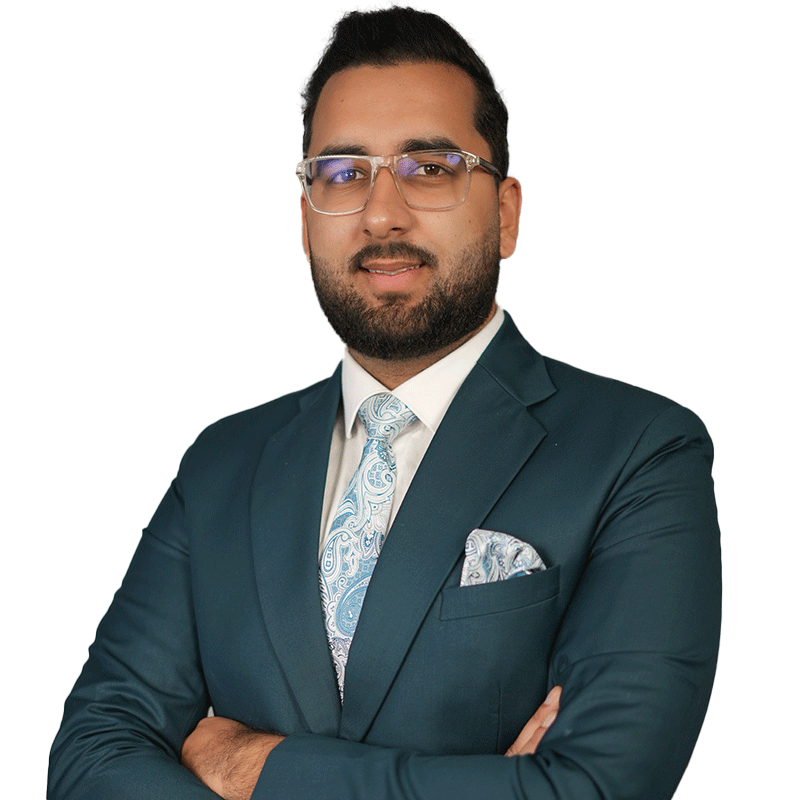
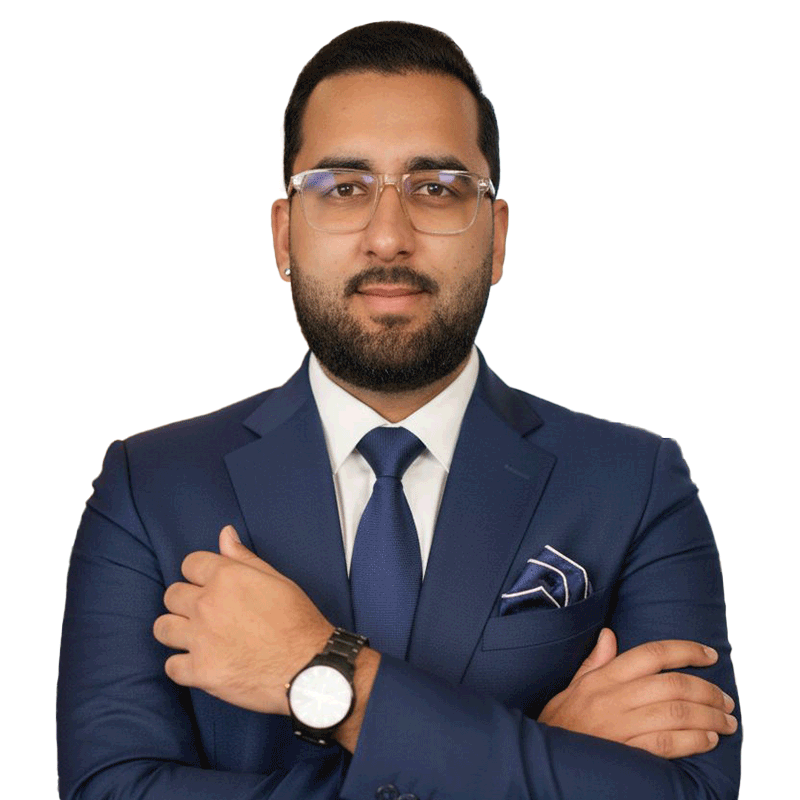
Use featured-testimonials iframe on homepage; about, footer, images updates
Made-with: Cursor

diff --git a/components/footer.php b/components/footer.php
@@ -894,16 +894,20 @@
 
     let loaderHidden = false;
     let hideLoaderTimeout = null;
-    let initialized = false;
 
-    // Hide loader when page is fully loaded
     function hideLoader() {
       if (loaderHidden || !pageLoader || pageLoader.classList.contains('hidden')) {
         return;
       }
+
+      if (hideLoaderTimeout) {
+        clearTimeout(hideLoaderTimeout);
+        hideLoaderTimeout = null;
+      }
+
       loaderHidden = true;
       pageLoader.classList.add('hidden');
-      // Remove from DOM after animation completes
+
       setTimeout(function() {
         if (pageLoader && pageLoader.parentNode) {
           pageLoader.style.display = 'none';
@@ -911,159 +915,55 @@
       }, 500);
     }
 
-    // Function to initialize loader hiding logic
-    function initLoaderHide() {
-      if (initialized) {
-        return; // Already initialized
-      }
-      initialized = true;
-
-      // Clear any existing timeout
-      if (hideLoaderTimeout) {
-        clearTimeout(hideLoaderTimeout);
-      }
-
-      // Hide loader faster - don't wait for all resources
-      if (document.readyState === 'loading') {
-        document.addEventListener('DOMContentLoaded', function() {
-          hideLoaderTimeout = setTimeout(hideLoader, 400);
-        }, {
-          once: true
-        });
-      } else if (document.readyState === 'interactive' || document.readyState === 'complete') {
-        // DOM already loaded, hide quickly
-        hideLoaderTimeout = setTimeout(hideLoader, 200);
-      }
-
-      // Also listen for window load as backup (but with shorter timeout)
-      window.addEventListener('load', function() {
-        if (hideLoaderTimeout) {
-          clearTimeout(hideLoaderTimeout);
-        }
-        hideLoaderTimeout = setTimeout(hideLoader, 100);
-      }, {
-        once: true
-      });
-
-      // Force hide after maximum time (prevent infinite loading)
-      setTimeout(function() {
-        if (!loaderHidden) {
-          hideLoader();
-        }
-      }, 2000); // Maximum 2 seconds
-    }
-
-    // Handle browser back/forward navigation (pageshow event)
-    // This runs on every page show, including back/forward navigation
-    window.addEventListener('pageshow', function(event) {
-      // Reset initialization flag
-      initialized = false;
-
-      // Clear any existing timeout
+    function showLoader() {
       if (hideLoaderTimeout) {
         clearTimeout(hideLoaderTimeout);
         hideLoaderTimeout = null;
       }
 
-      // If page was loaded from cache (bfcache), hide loader immediately
-      if (event.persisted) {
-        // Page loaded from cache - it's already fully loaded, hide loader immediately
-        loaderHidden = true;
-        if (pageLoader) {
-          pageLoader.style.display = 'none';
-          pageLoader.classList.add('hidden');
-        }
-      } else {
-        // Fresh page load
-        loaderHidden = false;
-        if (pageLoader) {
-          pageLoader.style.display = 'flex';
-          pageLoader.classList.remove('hidden');
-        }
-        // Initialize hide logic
-        initLoaderHide();
-      }
-    });
-
-    // Initial setup for first load
-    // Show loader initially
-    pageLoader.style.display = 'flex';
-    pageLoader.classList.remove('hidden');
-    initLoaderHide();
-
-    // Show loader when navigating away (for page transitions)
-    let isNavigating = false;
-
-    // Helper function to check if mobile
-    function isMobile() {
-      return window.innerWidth <= 992;
+      loaderHidden = false;
+      pageLoader.style.display = 'flex';
+      pageLoader.classList.remove('hidden');
     }
 
-    // Listen for link clicks
-    document.addEventListener('click', function(e) {
-      const link = e.target.closest('a');
-      if (link && link.href && !link.href.startsWith('#') && !link.href.startsWith('javascript:') && !link.href.startsWith('mailto:') && !link.href.startsWith('tel:')) {
-        try {
-          // Don't show loader for links that open in new tab - current page doesn't navigate
-          if (link.target === '_blank') {
-            return;
-          }
-
-          // Check if clicking directly on dropdown arrow or nested arrow - don't show loader
-          const clickedDropdownArrow = e.target.closest('.dropdown-arrow') || e.target.closest('.nested-arrow');
-          if (clickedDropdownArrow) {
-            return; // Don't show loader for dropdown arrow clicks
-          }
-
-          // Check if link is inside a nav-dropdown (has dropdown menu)
-          const navDropdown = link.closest('.nav-dropdown');
-          const hasDropdownMenu = navDropdown && navDropdown.querySelector('.dropdown-menu');
-
-          // Check if this is the parent nav-link that toggles dropdown on mobile
-          // The parent link has .nav-link class and is inside .nav-dropdown with a .dropdown-menu sibling
-          const isParentDropdownLink = link.classList.contains('nav-link') && hasDropdownMenu;
-
-          // Check if this is a nested dropdown parent link that toggles nested menu on mobile
-          const isNestedDropdownParent = link.classList.contains('dropdown-item-parent') && link.closest('.dropdown-item-nested');
-
-          // On mobile, if link is the parent dropdown link or nested dropdown parent, it will toggle dropdown instead of navigating - don't show loader
-          if ((isParentDropdownLink || isNestedDropdownParent) && isMobile()) {
-            // Don't show loader - the navigation script will prevent default and toggle dropdown
-            return;
-          }
-
-          const currentHost = window.location.hostname;
-          const linkUrl = new URL(link.href, window.location.href);
-          const linkHost = linkUrl.hostname;
-          const currentPath = window.location.pathname;
-          const linkPath = linkUrl.pathname;
-
-          // If link has dropdown menu and we're on the same page, it's just expanding dropdown - don't show loader
-          if (hasDropdownMenu && linkPath === currentPath) {
-            return; // Don't show loader for dropdown expansion
-          }
-
-          // Only show loader for same-domain navigation to a different page
-          if ((linkHost === currentHost || linkHost === '') && linkPath !== currentPath) {
-            isNavigating = true;
-            loaderHidden = false;
-            pageLoader.classList.remove('hidden');
-            pageLoader.style.display = 'flex';
-          }
-        } catch (err) {
-          // Invalid URL, ignore
-        }
+    function scheduleHide(delay) {
+      if (loaderHidden) {
+        return;
       }
-    }, true);
 
-    // Show loader on beforeunload (page refresh or navigation)
-    window.addEventListener('beforeunload', function() {
-      if (!isNavigating) {
-        loaderHidden = false;
-        pageLoader.classList.remove('hidden');
-        pageLoader.style.display = 'flex';
+      if (hideLoaderTimeout) {
+        clearTimeout(hideLoaderTimeout);
+      }
+
+      hideLoaderTimeout = setTimeout(hideLoader, delay);
+    }
+
+    window.addEventListener('pageshow', function(event) {
+      if (event.persisted) {
+        hideLoader();
       }
     });
+
+    if (document.readyState === 'loading') {
+      showLoader();
+      document.addEventListener('DOMContentLoaded', function() {
+        scheduleHide(150);
+      }, {
+        once: true
+      });
+    } else {
+      hideLoader();
+    }
+
+    window.addEventListener('load', function() {
+      scheduleHide(0);
+    }, {
+      once: true
+    });
+
+    setTimeout(function() {
+      hideLoader();
+    }, 2500);
   })();
 </script>
 

diff --git a/index.php b/index.php
@@ -9,8 +9,8 @@ include 'components/header.php'; ?>
   <section class="modern-hero" aria-label="Welcome to Owning Ottawa">
     <div class="hero-media">
       <iframe class="hero-video"
-        src="https://www.youtube.com/embed/QwOMYBZwI3E?autoplay=1&mute=1&loop=1&playlist=QwOMYBZwI3E&controls=0&modestbranding=1&rel=0&playsinline=1"
-        title="DESIGNER RESIDENCE | CINEMATIC REAL ESTATE VIDEO IN 4K | SONY FX6"
+        src="https://www.youtube.com/embed/3Q67k3EebYk?autoplay=1&mute=1&loop=1&playlist=3Q67k3EebYk&controls=0&modestbranding=1&rel=0&playsinline=1"
+        title="OwningOttawa - Ottawa Real Estate"
         frameborder="0"
         allow="accelerometer; autoplay; clipboard-write; encrypted-media; gyroscope; picture-in-picture"
         referrerpolicy="strict-origin-when-cross-origin"

diff --git a/about.php b/about.php
@@ -10,7 +10,7 @@ include 'components/header.php'; ?>
             <div class="row align-items-center">
                 <div class="col-lg-6">
                     <div class="hero-image scroll-animate">
-                        <img src="/images/founder-shubham-duggal.jpg" alt="Shubham Duggal - Founder of Owning Ottawa Group">
+                        <img src="/images/founder-shubham-duggal-with-family.jpg" alt="Shubham Duggal - Founder of Owning Ottawa Group">
                     </div>
                 </div>
                 <div class="col-lg-6">
